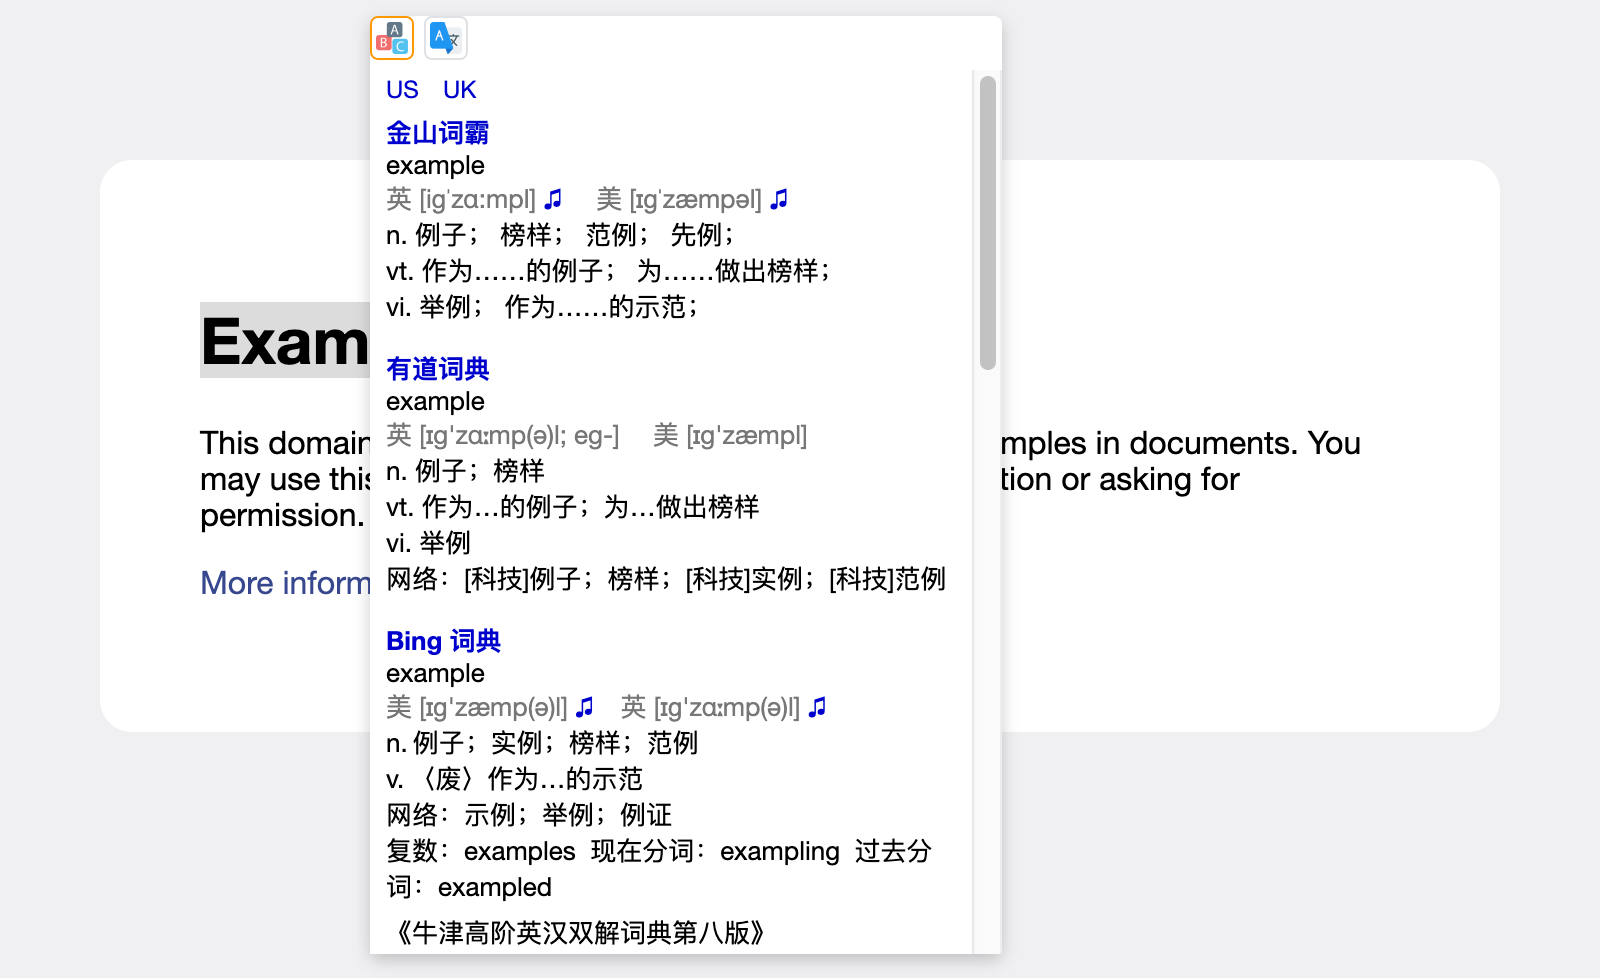
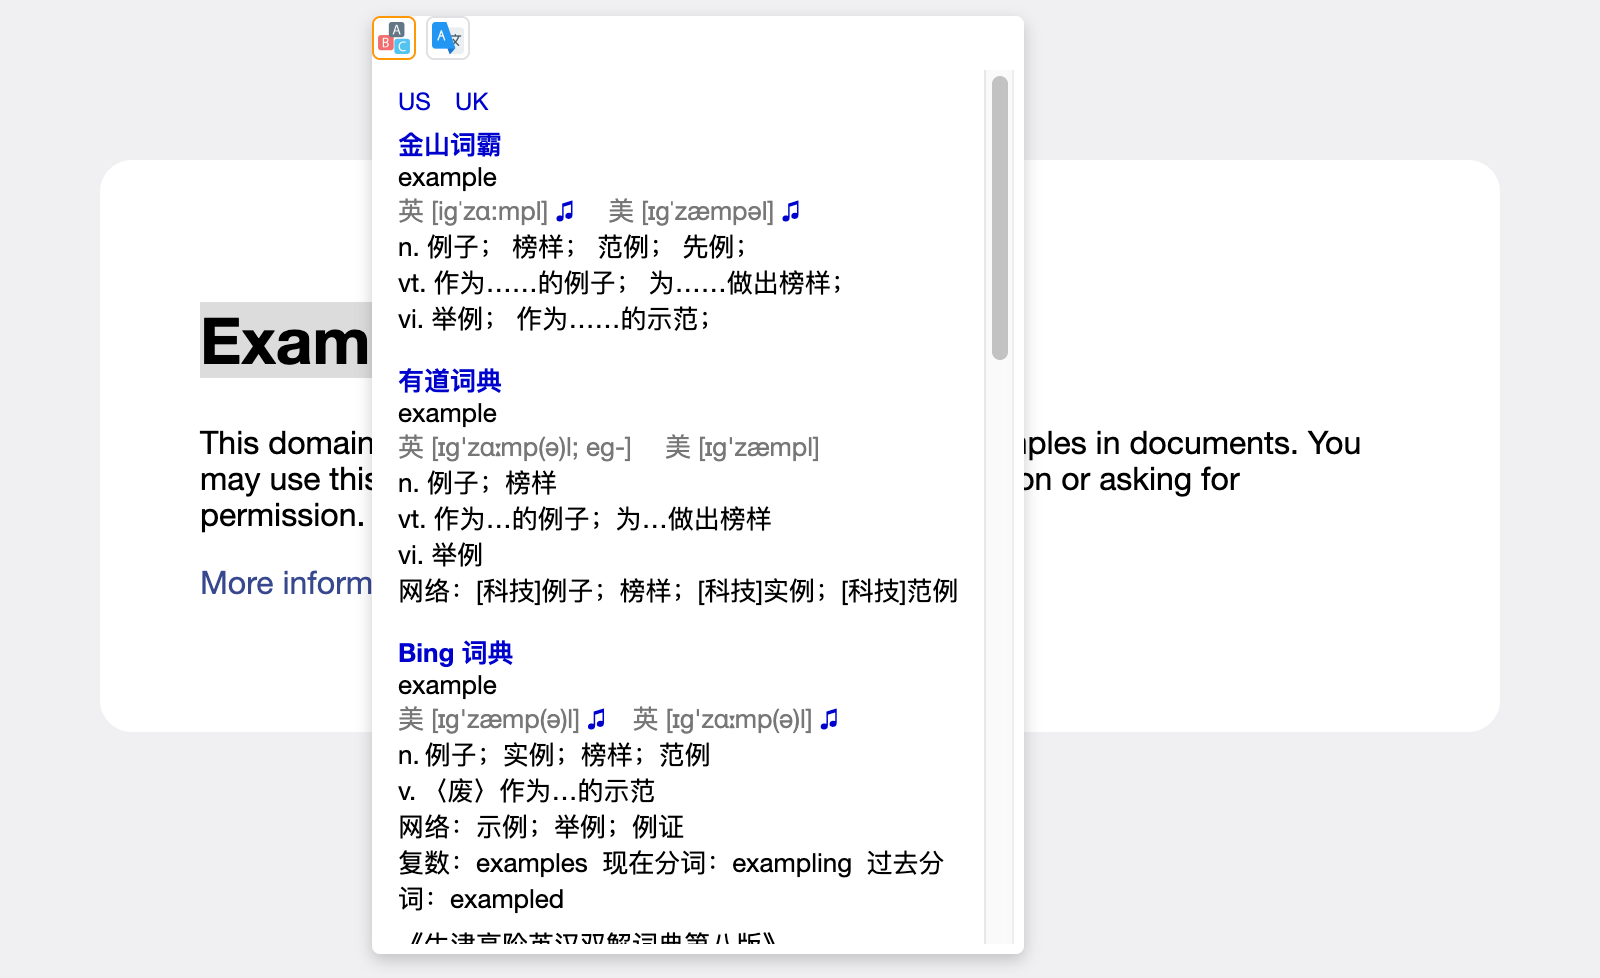
样式微调

diff --git a/translate/translate-dictionary.js b/translate/translate-dictionary.js
@@ -1,7 +1,7 @@
 // ==UserScript==
 // @name         划词翻译：多词典查询
 // @namespace    http://tampermonkey.net/
-// @version      5.6
+// @version      5.7
 // @description  划词翻译调用“有道词典（有道翻译）、金山词霸、Bing 词典（必应词典）、剑桥高阶、沪江小D、谷歌翻译”
 // @author       https://github.com/barrer
 // @match        http://*/*
@@ -43,7 +43,7 @@
     tr-audio{display:block;margin-bottom:5px}
     tr-audio a{margin-right:1em;font-size:80%}
     tr-audio a:last-of-type{margin-right:auto}
-    tr-content{display:block;max-width:300px;width:300px;overflow-x:hidden;overflow-y:scroll;background:white;padding:2px 8px;margin-top:5px;box-sizing:content-box;font-family:"Helvetica Neue","Helvetica","Arial","sans-serif";font-size:13px;font-weight:normal;line-height:normal;-webkit-font-smoothing:auto;font-smoothing:auto;text-rendering:auto}
+    tr-content{display:block;width:300px;overflow-x:hidden;overflow-y:scroll;background:white;padding:8px;margin:5px;box-sizing:content-box;font-family:"Helvetica Neue","Helvetica","Arial","sans-serif";font-size:13px;font-weight:normal;line-height:normal;-webkit-font-smoothing:auto;font-smoothing:auto;text-rendering:auto}
     tr-engine~tr-engine{margin-top:1em}
     tr-engine .title{color:#00c;display:inline-block;font-weight:bold}
     tr-engine .title:hover{text-decoration:none}
@@ -606,77 +606,6 @@
             engineResult[id] = value;
         }
     }
-    /**显示内容面板*/
-    function displayContent() {
-        var panelWidth = 316 + 8; // icon 展开后总宽度(8:冗余距离)
-        var panelHeight = 0; // icon 展开后总高度
-        // 计算位置
-        log('content position:',
-            'window.scrollY', window.scrollY,
-            'document.documentElement.scrollTop', document.documentElement.scrollTop,
-            'document.body.scrollTop', document.body.scrollTop,
-            'window.innerHeight', window.innerHeight,
-            'document.documentElement.clientHeight', document.documentElement.clientHeight,
-            'document.body.clientHeight', document.body.clientHeight,
-            'icon.style.top', icon.style.top,
-            'window.scrollX', window.scrollX,
-            'document.documentElement.scrollLeft', document.documentElement.scrollLeft,
-            'document.body.scrollLeft', document.body.scrollLeft,
-            'window.innerWidth', window.innerWidth,
-            'document.documentElement.clientWidth', document.documentElement.clientWidth,
-            'document.body.clientWidth', document.body.clientWidth,
-            'icon.style.left', icon.style.left
-        );
-        var scrollTop = Math.max(parseInt(document.documentElement.scrollTop), parseInt(document.body.scrollTop));
-        var scrollLeft = Math.max(parseInt(document.documentElement.scrollLeft), parseInt(document.body.scrollLeft));
-        var clientHeight = [parseInt(document.documentElement.clientHeight), parseInt(document.body.clientHeight)].filter(function (x) {
-            return x <= parseInt(window.innerHeight);
-        }).sort(function (a, b) {
-            return a > b ? -1 : (a == b ? 0 : 1);
-        })[0]; // 找出最大值且小于等于 window 的高度
-        if (!clientHeight) { // 网页缩放导致可能数组为空（[0] 为 undefined）
-            clientHeight = parseInt(window.innerHeight);
-        }
-        var clientWidth = [parseInt(document.documentElement.clientWidth), parseInt(document.body.clientWidth)].filter(function (x) {
-            return x <= parseInt(window.innerWidth);
-        }).sort(function (a, b) {
-            return a > b ? -1 : (a == b ? 0 : 1);
-        })[0]; // 找出最大值且小于等于 window 的宽度
-        if (!clientWidth) { // 网页缩放导致可能数组为空（[0] 为 undefined）
-            clientWidth = parseInt(window.innerWidth);
-        }
-        // 计算“icon 展开后总高度”、内容高度
-        panelHeight = clientHeight - 8; // (8:冗余距离)
-        content.style.height = (panelHeight - 22 - 5 - 2 * 2 - 12) + 'px'; // 22:图标高度, 5:margin, 2*2:padding, 12:box-shadow
-        // 设置新的位置
-        var iconNewTop = -1;
-        if (parseInt(icon.style.top) < scrollTop) {
-            log('Y adjust top');
-            iconNewTop = scrollTop;
-        } else if (parseInt(icon.style.top) + panelHeight > scrollTop + clientHeight) {
-            log('Y adjust bottom');
-            iconNewTop = parseInt(scrollTop + clientHeight - panelHeight);
-        }
-        if (iconNewTop != -1 && Math.abs(iconNewTop - parseInt(icon.style.top)) <= panelHeight) {
-            log('Y set iconNewTop', iconNewTop);
-            icon.style.top = iconNewTop + 'px';
-        }
-        var iconNewLeft = -1;
-        if (parseInt(icon.style.left) < scrollLeft) {
-            log('X adjust left');
-            iconNewLeft = scrollLeft;
-        } else if (parseInt(icon.style.left) + panelWidth > scrollLeft + clientWidth) {
-            log('X adjust right');
-            iconNewLeft = parseInt(scrollLeft + clientWidth - panelWidth);
-        }
-        if (iconNewLeft != -1 && Math.abs(iconNewLeft - parseInt(icon.style.left)) <= panelWidth) {
-            log('X set iconNewLeft', iconNewLeft);
-            icon.style.left = iconNewLeft + 'px';
-        }
-        content.scrollTop = 0; // 翻译面板滚动到顶端
-        content.scrollLeft = 0; // 翻译面板滚动到左端
-        content.style.display = 'block';
-    }
     /**初始化面板*/
     function initContent() {
         contentList.innerHTML = ''; // 清空翻译内容列表
@@ -727,6 +656,77 @@
                 contentList.appendChild(engine);
             }
         });
+    }
+    /**显示内容面板*/
+    function displayContent() {
+        var panelWidth = 326 + 8; // icon 展开后总宽度(8:冗余距离)
+        var panelHeight = 0; // icon 展开后总高度
+        // 计算位置
+        log('content position:',
+            'window.scrollY', window.scrollY,
+            'document.documentElement.scrollTop', document.documentElement.scrollTop,
+            'document.body.scrollTop', document.body.scrollTop,
+            'window.innerHeight', window.innerHeight,
+            'document.documentElement.clientHeight', document.documentElement.clientHeight,
+            'document.body.clientHeight', document.body.clientHeight,
+            'icon.style.top', icon.style.top,
+            'window.scrollX', window.scrollX,
+            'document.documentElement.scrollLeft', document.documentElement.scrollLeft,
+            'document.body.scrollLeft', document.body.scrollLeft,
+            'window.innerWidth', window.innerWidth,
+            'document.documentElement.clientWidth', document.documentElement.clientWidth,
+            'document.body.clientWidth', document.body.clientWidth,
+            'icon.style.left', icon.style.left
+        );
+        var scrollTop = Math.max(parseInt(document.documentElement.scrollTop), parseInt(document.body.scrollTop));
+        var scrollLeft = Math.max(parseInt(document.documentElement.scrollLeft), parseInt(document.body.scrollLeft));
+        var clientHeight = [parseInt(document.documentElement.clientHeight), parseInt(document.body.clientHeight)].filter(function (x) {
+            return x <= parseInt(window.innerHeight);
+        }).sort(function (a, b) {
+            return a > b ? -1 : (a == b ? 0 : 1);
+        })[0]; // 找出最大值且小于等于 window 的高度
+        if (!clientHeight) { // 网页缩放导致可能数组为空（[0] 为 undefined）
+            clientHeight = parseInt(window.innerHeight);
+        }
+        var clientWidth = [parseInt(document.documentElement.clientWidth), parseInt(document.body.clientWidth)].filter(function (x) {
+            return x <= parseInt(window.innerWidth);
+        }).sort(function (a, b) {
+            return a > b ? -1 : (a == b ? 0 : 1);
+        })[0]; // 找出最大值且小于等于 window 的宽度
+        if (!clientWidth) { // 网页缩放导致可能数组为空（[0] 为 undefined）
+            clientWidth = parseInt(window.innerWidth);
+        }
+        // 计算“icon 展开后总高度”、内容高度
+        panelHeight = clientHeight - 8; // (8:冗余距离)
+        content.style.height = (panelHeight - 22 - 5 * 2 - 8 * 2 - 12) + 'px'; // 图标高度, margin, padding, box-shadow
+        // 设置新的位置
+        var iconNewTop = -1;
+        if (parseInt(icon.style.top) < scrollTop) {
+            log('Y adjust top');
+            iconNewTop = scrollTop;
+        } else if (parseInt(icon.style.top) + panelHeight > scrollTop + clientHeight) {
+            log('Y adjust bottom');
+            iconNewTop = parseInt(scrollTop + clientHeight - panelHeight);
+        }
+        if (iconNewTop != -1 && Math.abs(iconNewTop - parseInt(icon.style.top)) <= panelHeight) {
+            log('Y set iconNewTop', iconNewTop);
+            icon.style.top = iconNewTop + 'px';
+        }
+        var iconNewLeft = -1;
+        if (parseInt(icon.style.left) < scrollLeft) {
+            log('X adjust left');
+            iconNewLeft = scrollLeft;
+        } else if (parseInt(icon.style.left) + panelWidth > scrollLeft + clientWidth) {
+            log('X adjust right');
+            iconNewLeft = parseInt(scrollLeft + clientWidth - panelWidth);
+        }
+        if (iconNewLeft != -1 && Math.abs(iconNewLeft - parseInt(icon.style.left)) <= panelWidth) {
+            log('X set iconNewLeft', iconNewLeft);
+            icon.style.left = iconNewLeft + 'px';
+        }
+        content.scrollTop = 0; // 翻译面板滚动到顶端
+        content.scrollLeft = 0; // 翻译面板滚动到左端
+        content.style.display = 'block';
     }
     /**内容面板填充数据*/
     function showContent() {
